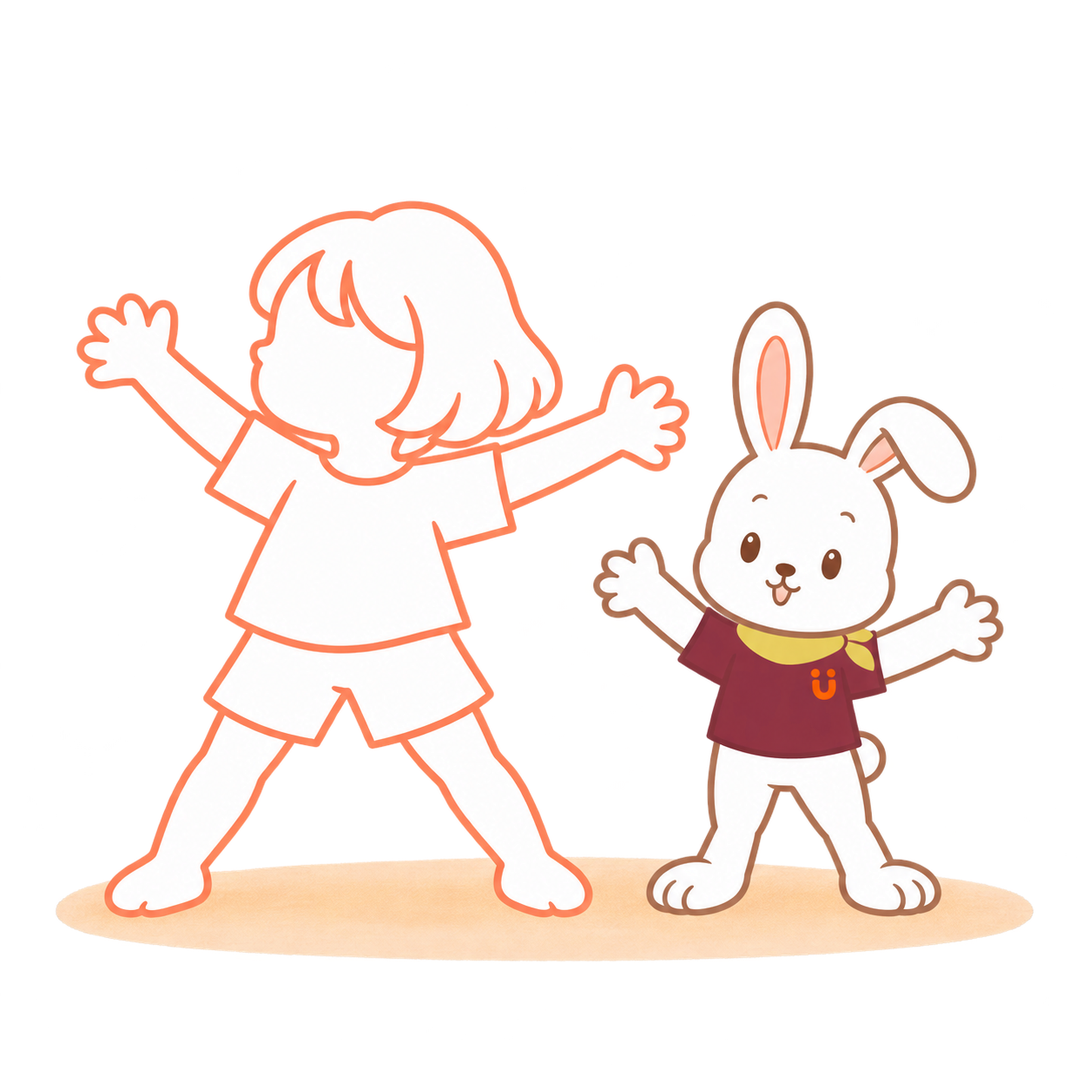
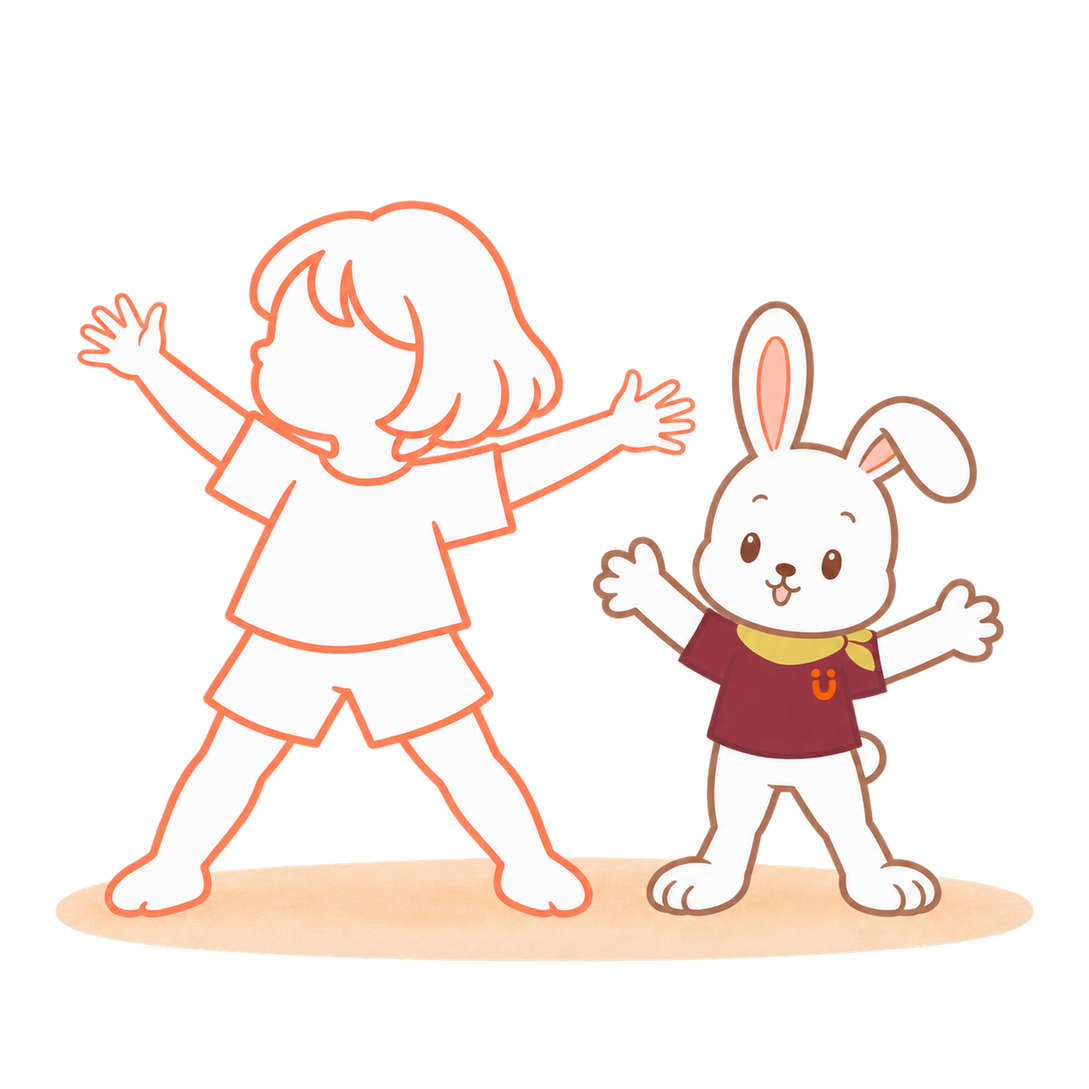
Refine Gen play title and child hands; add household story ideas

diff --git a/stories/rhythm-with-gen/index.html b/stories/rhythm-with-gen/index.html
@@ -1,16 +1,16 @@
 <!doctype html><html lang="ja"><head><meta charset="utf-8"><meta name="viewport" content="width=device-width,initial-scale=1"><meta name="theme-color" content="#fffdf9"><title>とん、とん。ぴたっ！ | HugMap Stories</title><meta name="description" content="子どもの音と動きをGenがまねる。鳴らす、動く、止まる、また始める遊びのWebtoon。"><link rel="stylesheet" href="../hello-gen/styles.css"><link rel="stylesheet" href="../intro-webtoon.css"><link rel="stylesheet" href="../play-with-gen/styles.css"><link rel="stylesheet" href="styles.css"><link rel="stylesheet" href="../buddy-hints.css"></head><body class="webtoon gen-play rhythm-play"><header class="story-header"><a class="brand" href="../play-with-gen/">HugMap <span>Stories</span></a><button id="textToggle" type="button" aria-pressed="false">文字を大きく</button></header><nav class="progress" aria-label="物語の進み具合"><span id="progressLabel">はじまり</span><span class="track"><span id="progressFill"></span></span><span id="progressCount">0 / 6</span></nav><main><section class="panel cover" id="cover" data-step="0"><div class="copy"><p class="eyebrow">HUGMAP · GENと あそぼう</p><h1>とん、とん。<br><em>ぴたっ！</em></h1><p class="lead">おとでも、てでも、からだでも。</p><a class="start cover-arrow" href="#scene-sound" aria-label="おはなしへ">↓</a></div><figure><img src="../assets/gen-play/gen-drum-echo.png" alt="子どもがたいこを鳴らし、隣でGenが見ている"></figure></section><section class="panel scene rhythm-split " id="scene-sound" data-step="1"><div class="copy"><p class="eyebrow" aria-label="1ページ">01</p><h2>きみが、とん。</h2><p class="story-text">ちいさな おと。<br>すこし まって、ぼくも、とん。</p></div><figure><img src="../assets/gen-play/gen-drum-echo.png" alt="子どもがたいこを鳴らし、隣でGenが見ている" loading="lazy"></figure><div class="story-beat"><p class="story-text">きこえた？</p></div>
 
 <aside class="buddy-hint" aria-label="Genから、おうちの人へ"><img class="buddy-hint-face" src="../../planning/style-studies/outputs/characters/icons/gen-head-icon.png" alt="" loading="lazy" width="70" height="70"><div class="buddy-hint-bubble"><span class="buddy-hint-label">おうちの人へ</span><p>まずは、きみの音を大人がまねしてみてね。<br>返ってこなくても、少し待ってみよう。</p></div></aside></section>
-<section class="panel scene rhythm-split " id="scene-touch" data-step="2"><div class="copy"><p class="eyebrow" aria-label="2ページ">02</p><h2>てと、てで。</h2><p class="story-text">ぼくの てを、ここに。<br>きみの てが……。</p></div><figure><img src="../assets/gen-play/gen-rhythm-touch.png" alt="向かい合って両手のひらを優しく合わせる子どもとGen" loading="lazy"></figure><div class="story-beat"><p class="story-text">たっち！<br>もういちど、たっち。</p></div>
+<section class="panel scene rhythm-split " id="scene-touch" data-step="2"><div class="copy"><p class="eyebrow" aria-label="2ページ">02</p><h2>てと、てで。</h2><p class="story-text">ぼくの てを、ここに。<br>きみの てが……。</p></div><figure><img src="../assets/gen-play/gen-rhythm-touch.png?09b7295bc6" alt="向かい合って両手のひらを優しく合わせる子どもとGen" loading="lazy"></figure><div class="story-beat"><p class="story-text">たっち！<br>もういちど、たっち。</p></div>
 
 <aside class="buddy-hint" aria-label="Genから、おうちの人へ"><img class="buddy-hint-face" src="../../planning/style-studies/outputs/characters/icons/gen-head-icon.png" alt="" loading="lazy" width="70" height="70"><div class="buddy-hint-bubble"><span class="buddy-hint-label">おうちの人へ</span><p>手を差し出して、待ってみてね。<br>触れたくないときは、見るだけでも。</p></div></aside></section>
-<section class="panel scene rhythm-split " id="scene-march" data-step="3"><div class="copy"><p class="eyebrow" aria-label="3ページ">03</p><h2>あしでも、いち、に。</h2><p class="story-text">てから、あしへ。<br>いち、に。いち、に。</p></div><figure><img src="../assets/gen-play/gen-rhythm-march.png" alt="子どもとGenが並んで片足ずつ上げ足踏みする" loading="lazy"></figure><div class="story-beat"><p class="story-text">ぼくも、となりで。<br>いち、に。</p></div>
+<section class="panel scene rhythm-split " id="scene-march" data-step="3"><div class="copy"><p class="eyebrow" aria-label="3ページ">03</p><h2>あしでも、いち、に。</h2><p class="story-text">てから、あしへ。<br>いち、に。いち、に。</p></div><figure><img src="../assets/gen-play/gen-rhythm-march.png?d88d744797" alt="子どもとGenが並んで片足ずつ上げ足踏みする" loading="lazy"></figure><div class="story-beat"><p class="story-text">ぼくも、となりで。<br>いち、に。</p></div>
 
 <aside class="buddy-hint" aria-label="Genから、おうちの人へ"><img class="buddy-hint-face" src="../../planning/style-studies/outputs/characters/icons/gen-head-icon.png" alt="" loading="lazy" width="70" height="70"><div class="buddy-hint-bubble"><span class="buddy-hint-label">おうちの人へ</span><p>立つのが難しいときは、座ったままでも。<br>ひざを、とんとん。これもリズムだよ。</p></div></aside></section>
-<section class="panel scene rhythm-split " id="scene-speed" data-step="4"><div class="copy"><p class="eyebrow" aria-label="4ページ">04</p><h2>おっと、はやすぎた。</h2><p class="story-text">ぼくは、いちに、いちに！<br>あれ、きみは……。</p></div><figure><img src="../assets/gen-play/gen-rhythm-march.png" alt="足踏みをする子どもに合わせるGen" loading="lazy"></figure><div class="story-beat"><p class="story-text">いーち、にー。<br>そうか。きみの はやさで。</p></div>
+<section class="panel scene rhythm-split " id="scene-speed" data-step="4"><div class="copy"><p class="eyebrow" aria-label="4ページ">04</p><h2>おっと、はやすぎた。</h2><p class="story-text">ぼくは、いちに、いちに！<br>あれ、きみは……。</p></div><figure><img src="../assets/gen-play/gen-rhythm-march.png?d88d744797" alt="足踏みをする子どもに合わせるGen" loading="lazy"></figure><div class="story-beat"><p class="story-text">いーち、にー。<br>そうか。きみの はやさで。</p></div>
 </section>
 <section class="panel scene rhythm-split quiet" id="scene-stop" data-step="5"><div class="copy"><p class="eyebrow" aria-label="5ページ">05</p><h2>……ぴたっ。</h2><p class="story-text">きみが とまった。<br>ぼくも、とまる。</p></div><figure><img src="../assets/gen-play/gen-freeze-pose.png" alt="両足で立ち手を広げたまま止まる子どもとGen" loading="lazy"></figure><div class="story-beat"><p class="story-text">しーん。<br>……。</p></div>
 
 </section>
-<section class="panel scene rhythm-split " id="scene-leader" data-step="6"><div class="copy"><p class="eyebrow" aria-label="6ページ">06</p><h2>こんどは、きみから。</h2><p class="story-text">きみの てが、ぱっ！<br>あ、そっち？</p></div><figure><img src="../assets/gen-play/gen-big.png" alt="子どもの大きく広げた手足をまねるGen" loading="lazy"></figure><div class="story-beat"><p class="story-text">ぼくも、ぱっ！<br>つぎは、なにを しよう？</p></div>
-</section><section class="afterword" id="afterword" data-step="7"><p class="eyebrow">おはなしの あとに</p><h2>きみのリズムで、<br>遊びが変わる。</h2><p>音で返事をする。手を合わせる。足踏みする。速さを変える。同じリズムでも、遊び方はいろいろ。Genは子どもの音や動きに応じて、一緒に動いたり、止まったり。気に入ったところだけ、何度でも。</p><div class="play-choices"><h3>どれを、もういっかい？</h3><div class="play-choice-grid"><a href="#scene-sound"><img src="../assets/gen-play/gen-drum-echo.png" alt="" loading="lazy"><span>音で返事</span></a><a href="#scene-touch"><img src="../assets/gen-play/gen-rhythm-touch.png" alt="" loading="lazy"><span>手と手</span></a><a href="#scene-march"><img src="../assets/gen-play/gen-rhythm-march.png" alt="" loading="lazy"><span>足踏み</span></a><a href="#scene-stop"><img src="../assets/gen-play/gen-freeze-pose.png" alt="" loading="lazy"><span>ぴたっ</span></a><a href="#scene-leader"><img src="../assets/gen-play/gen-big.png" alt="" loading="lazy"><span>きみから</span></a></div><p>全部しなくて大丈夫。好きなところから。</p></div><div class="aims"><h3>この遊びのねらい</h3><ul><li><strong>やりとり：</strong>自分の音や動きに、相手が応じる楽しさ。</li><li><strong>手を使う：</strong>触れる、鳴らす、離す。慣れたら両手や左右の手でも。</li><li><strong>動く・止まる：</strong>姿勢を変えたり、一瞬その形で止まったりする経験。</li></ul><p>左右交互にたたくこと、音に合わせて止まることは、最初からの条件ではありません。</p></div><details class="play-note"><summary>準備と、遊びを変える目安</summary><p><strong>止まる遊びのコツ：</strong>まずは子どもが止まった瞬間に大人も止まるところから。慣れたら短い歌や音の切れ目で一緒に止まってみます。座って手だけ動かしても遊べます。</p><p>倒れにくい低い手遊び用のたいこなどを使い、小さな音から。大きな音や突然の音が苦手なら、音を出さず動きをまねる遊びでも構いません。</p><p>立って遊ぶときは、平らで滑りにくい床で、周りに十分な空間を。長く止まり続けたり、同じ形を無理に作ったりする必要はありません。疲れや不快な様子があれば休みます。</p><p>身体の支え方や運動に制限がある場合は担当の専門職と相談してください。遊びのねらいは、発達の効果や達成を約束するものではありません。</p></details><p class="sources">参考：<a href="https://www.justonenorfolk.nhs.uk/occupational-therapy-for-parents-carers/learning-playing-exploring/skills-building/gross-motor-skills/">NHS · Gross Motor Skills</a><br>バランス・両側の協調の観点を参考にしたHugMapの遊び案です。</p><div class="end-links"><a class="start" href="../play-with-gen/poses/">ほかの遊びを選ぶ →</a><a href="../delivery-with-gen/">ボールであそぼう →</a><a href="../through-with-gen/">ここ、通れるかな？ →</a><a href="#cover">もういちど読む ↑</a></div></section></main><script src="../hello-gen/story.js"></script></body></html>
+<section class="panel scene rhythm-split " id="scene-leader" data-step="6"><div class="copy"><p class="eyebrow" aria-label="6ページ">06</p><h2>こんどは、きみから。</h2><p class="story-text">きみの てが、ぱっ！<br>あ、そっち？</p></div><figure><img src="../assets/gen-play/gen-big.png?2f9ab7cfb0" alt="子どもの大きく広げた手足をまねるGen" loading="lazy"></figure><div class="story-beat"><p class="story-text">ぼくも、ぱっ！<br>つぎは、なにを しよう？</p></div>
+</section><section class="afterword" id="afterword" data-step="7"><p class="eyebrow">おはなしの あとに</p><h2>きみのリズムで、<br>遊びが変わる。</h2><p>音で返事をする。手を合わせる。足踏みする。速さを変える。同じリズムでも、遊び方はいろいろ。Genは子どもの音や動きに応じて、一緒に動いたり、止まったり。気に入ったところだけ、何度でも。</p><div class="play-choices"><h3>どれを、もういっかい？</h3><div class="play-choice-grid"><a href="#scene-sound"><img src="../assets/gen-play/gen-drum-echo.png" alt="" loading="lazy"><span>音で返事</span></a><a href="#scene-touch"><img src="../assets/gen-play/gen-rhythm-touch.png?09b7295bc6" alt="" loading="lazy"><span>手と手</span></a><a href="#scene-march"><img src="../assets/gen-play/gen-rhythm-march.png?d88d744797" alt="" loading="lazy"><span>足踏み</span></a><a href="#scene-stop"><img src="../assets/gen-play/gen-freeze-pose.png" alt="" loading="lazy"><span>ぴたっ</span></a><a href="#scene-leader"><img src="../assets/gen-play/gen-big.png?2f9ab7cfb0" alt="" loading="lazy"><span>きみから</span></a></div><p>全部しなくて大丈夫。好きなところから。</p></div><div class="aims"><h3>この遊びのねらい</h3><ul><li><strong>やりとり：</strong>自分の音や動きに、相手が応じる楽しさ。</li><li><strong>手を使う：</strong>触れる、鳴らす、離す。慣れたら両手や左右の手でも。</li><li><strong>動く・止まる：</strong>姿勢を変えたり、一瞬その形で止まったりする経験。</li></ul><p>左右交互にたたくこと、音に合わせて止まることは、最初からの条件ではありません。</p></div><details class="play-note"><summary>準備と、遊びを変える目安</summary><p><strong>止まる遊びのコツ：</strong>まずは子どもが止まった瞬間に大人も止まるところから。慣れたら短い歌や音の切れ目で一緒に止まってみます。座って手だけ動かしても遊べます。</p><p>倒れにくい低い手遊び用のたいこなどを使い、小さな音から。大きな音や突然の音が苦手なら、音を出さず動きをまねる遊びでも構いません。</p><p>立って遊ぶときは、平らで滑りにくい床で、周りに十分な空間を。長く止まり続けたり、同じ形を無理に作ったりする必要はありません。疲れや不快な様子があれば休みます。</p><p>身体の支え方や運動に制限がある場合は担当の専門職と相談してください。遊びのねらいは、発達の効果や達成を約束するものではありません。</p></details><p class="sources">参考：<a href="https://www.justonenorfolk.nhs.uk/occupational-therapy-for-parents-carers/learning-playing-exploring/skills-building/gross-motor-skills/">NHS · Gross Motor Skills</a><br>バランス・両側の協調の観点を参考にしたHugMapの遊び案です。</p><div class="end-links"><a class="start" href="../play-with-gen/poses/">ほかの遊びを選ぶ →</a><a href="../delivery-with-gen/">ボールであそぼう →</a><a href="../through-with-gen/">ここ、通れるかな？ →</a><a href="#cover">もういちど読む ↑</a></div></section></main><script src="../hello-gen/story.js"></script></body></html>

diff --git a/stories/delivery-with-gen/index.html b/stories/delivery-with-gen/index.html
@@ -4,14 +4,14 @@
 <section class="panel scene rhythm-split " id="scene-deliver" data-step="2"><div class="copy"><p class="eyebrow" aria-label="2ページ">02</p><h2>おとどけもの、どうぞ。</h2><p class="story-text">ひろって、はこんで。<br>かごまで、よいしょ。</p></div><figure><img src="../assets/gen-play/gen-reach-up.png" alt="ボールを拾う子どもと、かごへ入れる子どもを見守るGen" loading="lazy"></figure><div class="story-beat"><p class="story-text">りょうてで、そっと。<br>はいった！</p></div>
 
 <aside class="buddy-hint" aria-label="Genから、おうちの人へ"><img class="buddy-hint-face" src="../../planning/style-studies/outputs/characters/icons/gen-head-icon.png" alt="" loading="lazy" width="70" height="70"><div class="buddy-hint-bubble"><span class="buddy-hint-label">おうちの人へ</span><p>手が届きにくそうなら、<br>かごを近く、低いところへ。</p></div></aside></section>
-<section class="panel scene rhythm-split " id="scene-target" data-step="3"><div class="copy"><p class="eyebrow" aria-label="3ページ">03</p><h2>ころがしても、いいね。</h2><p class="story-text">こんどは、はこを よこむきに。</p></div><figure><img src="../assets/gen-play/gen-ball-target.png" alt="横にした箱に向かってボールを転がそうとする子どもと、箱を支えるGen" loading="lazy"></figure><div class="story-beat"><p class="story-text">もちあげなくても、<br>ここから、ころころ。</p></div>
+<section class="panel scene rhythm-split " id="scene-target" data-step="3"><div class="copy"><p class="eyebrow" aria-label="3ページ">03</p><h2>ころがしても、いいね。</h2><p class="story-text">こんどは、はこを よこむきに。</p></div><figure><img src="../assets/gen-play/gen-ball-target.png?914e0eff73" alt="横にした箱に向かってボールを転がそうとする子どもと、箱を支えるGen" loading="lazy"></figure><div class="story-beat"><p class="story-text">もちあげなくても、<br>ここから、ころころ。</p></div>
 
 </section>
 <section class="panel scene rhythm-split " id="scene-toss" data-step="4"><div class="copy"><p class="eyebrow" aria-label="4ページ">04</p><h2>うえへ、ぽん。</h2><p class="story-text">こんどは、そらへ。<br>ほんの すこし、ぽん。</p></div><figure><img src="../assets/gen-play/gen-ball-toss.png" alt="子どもが自分の頭の少し上へボールを投げ両手を開きGenが見守る" loading="lazy"></figure><div class="story-beat"><p class="story-text">おちてくるよ。<br>りょうてを、ひらいて……。</p></div>
 
 </section>
-<section class="panel scene rhythm-split " id="scene-catch" data-step="5"><div class="copy"><p class="eyebrow" aria-label="5ページ">05</p><h2>きみへ、ふわっ。</h2><p class="story-text">ぼくは、すこし ちかくへ。<br>じゅんびは、いい？</p></div><figure><img src="../assets/gen-play/gen-ball-catch.png" alt="Genが近い距離から下手でボールを渡し子どもが両手を構える" loading="lazy"></figure><div class="story-beat"><p class="story-text">ふわっ。<br>きみの ての ところへ。</p></div>
+<section class="panel scene rhythm-split " id="scene-catch" data-step="5"><div class="copy"><p class="eyebrow" aria-label="5ページ">05</p><h2>きみへ、ふわっ。</h2><p class="story-text">ぼくは、すこし ちかくへ。<br>じゅんびは、いい？</p></div><figure><img src="../assets/gen-play/gen-ball-catch.png?568f5c741d" alt="Genが近い距離から下手でボールを渡し子どもが両手を構える" loading="lazy"></figure><div class="story-beat"><p class="story-text">ふわっ。<br>きみの ての ところへ。</p></div>
 
 <aside class="buddy-hint" aria-label="Genから、おうちの人へ"><img class="buddy-hint-face" src="../../planning/style-studies/outputs/characters/icons/gen-head-icon.png" alt="" loading="lazy" width="70" height="70"><div class="buddy-hint-bubble"><span class="buddy-hint-label">おうちの人へ</span><p>両手で抱えやすい、軽くて柔らかいボールで。<br>受ける準備ができたら、近くから。</p></div></aside></section>
 <section class="panel scene rhythm-split " id="scene-again" data-step="6"><div class="copy"><p class="eyebrow" aria-label="6ページ">06</p><h2>どれを、もういっかい？</h2><p class="story-text">ころころ？<br>それとも、ぽん？</p></div><figure><img src="../assets/gen-play/gen-ball-exchange.png" alt="向かい合って座りボールで遊ぶ子どもとGen" loading="lazy"></figure><div class="story-beat"><p class="story-text">きみの すきな あそびを、<br>ぼくと、もういっかい。</p></div>
-</section><section class="afterword" id="afterword" data-step="7"><p class="eyebrow">おはなしの あとに</p><h2>ひとつのボールで、<br>いろんな「やってみたい」。</h2><p>転がす、運ぶ、箱へ入れる、上へ投げる、相手と受け渡す。全部を順番にする必要はありません。Genは、子どもの関心や動きに合わせて、道や入口を変えます。今日はどの遊びが楽しそうでしょう。</p><div class="play-choices"><h3>どれを、もういっかい？</h3><div class="play-choice-grid"><a href="#scene-roll"><img src="../assets/gen-play/gen-ball-exchange.png" alt="" loading="lazy"><span>ころがす</span></a><a href="#scene-deliver"><img src="../assets/gen-play/gen-reach-up.png" alt="" loading="lazy"><span>運ぶ・入れる</span></a><a href="#scene-target"><img src="../assets/gen-play/gen-ball-target.png" alt="" loading="lazy"><span>箱へころころ</span></a><a href="#scene-toss"><img src="../assets/gen-play/gen-ball-toss.png" alt="" loading="lazy"><span>上へぽん</span></a><a href="#scene-catch"><img src="../assets/gen-play/gen-ball-catch.png" alt="" loading="lazy"><span>きみへどうぞ</span></a></div><p>全部しなくて大丈夫。好きなところから。</p></div><div class="aims"><h3>この遊びのねらい</h3><ul><li><strong>体を使う：</strong>拾う・立つ・運ぶ中で、体を支え、姿勢を変える経験。</li><li><strong>両手を使う：</strong>物を持ち、離すときの左右の協調や力加減。</li><li><strong>動きをつなぐ：</strong>拾う・運ぶ・入れる動きや、ボールを見て手を出す動きを、遊びの中で経験する。</li></ul><p>すべてを一度に行う必要はありません。座って手元の物をかごに入れるところからでも遊べます。</p></div><details class="play-note"><summary>準備と、遊びを変える目安</summary><p><strong>投げて、受ける：</strong>柔らかく軽いボールで、低く投げるところから。抱えるように受けても、落ちたボールを拾っても。周囲に物のない場所で遊びます。</p><p><strong>入口を変えるコツ：</strong>床に置いた箱へ転がす遊びも。広い入口を子どもの方へ向け、近くから。かごに持ち上げて入れる遊びと、好きな方を選べます。</p><p>軽くて持ちやすい物と、安定したかごを用意します。平らで滑りにくい床で、大人がそばに。最初は障害物のない短い道から始めます。</p><p>足が止まる、持ち直す、座り込むなどの様子を見たら、距離・重さ・高さのどれか一つを変えてみます。関心が別に移ったときは、遊びを変えたり終えたりして構いません。</p><p>痛みや疲れがあるときは休みます。支え方や運動に制限がある場合は担当の専門職と相談してください。ここでのねらいは、発達の効果や達成を約束するものではありません。</p></details><p class="sources">参考：<a href="https://www.justonenorfolk.nhs.uk/occupational-therapy-for-parents-carers/learning-playing-exploring/skills-building/gross-motor-skills/">NHS · Gross Motor Skills</a><br>上記の観点を参考にしたHugMapの遊び案です。</p><div class="end-links"><a class="start" href="../play-with-gen/poses/">ほかの遊びを選ぶ →</a><a href="../rhythm-with-gen/">とん、とん。ぴたっ！ →</a><a href="../through-with-gen/">ここ、通れるかな？ →</a><a href="#cover">もういちど読む ↑</a><a href="../play-with-gen/">Genの遊び編へ →</a></div></section></main><script src="../hello-gen/story.js"></script></body></html>
+</section><section class="afterword" id="afterword" data-step="7"><p class="eyebrow">おはなしの あとに</p><h2>ひとつのボールで、<br>いろんな「やってみたい」。</h2><p>転がす、運ぶ、箱へ入れる、上へ投げる、相手と受け渡す。全部を順番にする必要はありません。Genは、子どもの関心や動きに合わせて、道や入口を変えます。今日はどの遊びが楽しそうでしょう。</p><div class="play-choices"><h3>どれを、もういっかい？</h3><div class="play-choice-grid"><a href="#scene-roll"><img src="../assets/gen-play/gen-ball-exchange.png" alt="" loading="lazy"><span>ころがす</span></a><a href="#scene-deliver"><img src="../assets/gen-play/gen-reach-up.png" alt="" loading="lazy"><span>運ぶ・入れる</span></a><a href="#scene-target"><img src="../assets/gen-play/gen-ball-target.png?914e0eff73" alt="" loading="lazy"><span>箱へころころ</span></a><a href="#scene-toss"><img src="../assets/gen-play/gen-ball-toss.png" alt="" loading="lazy"><span>上へぽん</span></a><a href="#scene-catch"><img src="../assets/gen-play/gen-ball-catch.png?568f5c741d" alt="" loading="lazy"><span>きみへどうぞ</span></a></div><p>全部しなくて大丈夫。好きなところから。</p></div><div class="aims"><h3>この遊びのねらい</h3><ul><li><strong>体を使う：</strong>拾う・立つ・運ぶ中で、体を支え、姿勢を変える経験。</li><li><strong>両手を使う：</strong>物を持ち、離すときの左右の協調や力加減。</li><li><strong>動きをつなぐ：</strong>拾う・運ぶ・入れる動きや、ボールを見て手を出す動きを、遊びの中で経験する。</li></ul><p>すべてを一度に行う必要はありません。座って手元の物をかごに入れるところからでも遊べます。</p></div><details class="play-note"><summary>準備と、遊びを変える目安</summary><p><strong>投げて、受ける：</strong>柔らかく軽いボールで、低く投げるところから。抱えるように受けても、落ちたボールを拾っても。周囲に物のない場所で遊びます。</p><p><strong>入口を変えるコツ：</strong>床に置いた箱へ転がす遊びも。広い入口を子どもの方へ向け、近くから。かごに持ち上げて入れる遊びと、好きな方を選べます。</p><p>軽くて持ちやすい物と、安定したかごを用意します。平らで滑りにくい床で、大人がそばに。最初は障害物のない短い道から始めます。</p><p>足が止まる、持ち直す、座り込むなどの様子を見たら、距離・重さ・高さのどれか一つを変えてみます。関心が別に移ったときは、遊びを変えたり終えたりして構いません。</p><p>痛みや疲れがあるときは休みます。支え方や運動に制限がある場合は担当の専門職と相談してください。ここでのねらいは、発達の効果や達成を約束するものではありません。</p></details><p class="sources">参考：<a href="https://www.justonenorfolk.nhs.uk/occupational-therapy-for-parents-carers/learning-playing-exploring/skills-building/gross-motor-skills/">NHS · Gross Motor Skills</a><br>上記の観点を参考にしたHugMapの遊び案です。</p><div class="end-links"><a class="start" href="../play-with-gen/poses/">ほかの遊びを選ぶ →</a><a href="../rhythm-with-gen/">とん、とん。ぴたっ！ →</a><a href="../through-with-gen/">ここ、通れるかな？ →</a><a href="#cover">もういちど読む ↑</a><a href="../play-with-gen/">Genの遊び編へ →</a></div></section></main><script src="../hello-gen/story.js"></script></body></html>

diff --git a/stories/play-with-gen/index.html b/stories/play-with-gen/index.html
@@ -1,7 +1,7 @@
 <!doctype html>
-<html lang="ja"><head><meta charset="utf-8"><meta name="viewport" content="width=device-width,initial-scale=1"><meta name="theme-color" content="#fffdf9"><meta name="description" content="子どもの動きや興味から、Genと遊びが広がる。まねる、やりとりする、トンネルをくぐる、ひと休み。"><title>きみの「もういっかい」みつけた。 | HugMap Stories</title><link rel="stylesheet" href="../hello-gen/styles.css"><link rel="stylesheet" href="../intro-webtoon.css"><link rel="stylesheet" href="styles.css"></head>
+<html lang="ja"><head><meta charset="utf-8"><meta name="viewport" content="width=device-width,initial-scale=1"><meta name="theme-color" content="#fffdf9"><meta name="description" content="丸まる、押す、寝転ぶ、くぐる。Genと、からだの形・力・向きを感じる遊び。"><title>ぎゅっ、ごろん。からだで あそぼう。 | HugMap Stories</title><link rel="stylesheet" href="../hello-gen/styles.css"><link rel="stylesheet" href="../intro-webtoon.css"><link rel="stylesheet" href="styles.css"></head>
 <body class="webtoon gen-play"><header class="story-header"><a class="brand" href="../hello-gen/">HugMap <span>Stories</span></a><button id="textToggle" type="button" aria-pressed="false">文字を大きく</button></header><nav class="progress" aria-label="物語の進み具合"><span id="progressLabel">はじまり</span><span class="track"><span id="progressFill"></span></span><span id="progressCount">0 / 10</span></nav><main>
-<section class="panel cover" id="cover" data-step="0"><div class="copy"><p class="eyebrow">HUGMAP · GENと あそぼう</p><h1>きみの「もういっかい」<br><em>みつけた。</em></h1><p class="lead">きみと いっしょに、からだで あそぼう。</p><a class="start cover-arrow" href="#scene-invite" aria-label="おはなしへ"><span aria-hidden="true">↓</span></a></div><figure><img src="../assets/gen-play/gen-cover.png?8b01918412" width="1254" height="1254" alt="遊びの入口で、子どもと一緒に読者を誘うGen" fetchpriority="high"></figure></section>
+<section class="panel cover" id="cover" data-step="0"><div class="copy"><p class="eyebrow">HUGMAP · GENと あそぼう</p><h1>ぎゅっ、ごろん。<br><em>からだで あそぼう。</em></h1><p class="lead">Genと、からだの形・力・向きを感じる遊び</p><a class="start cover-arrow" href="#scene-invite" aria-label="おはなしへ"><span aria-hidden="true">↓</span></a></div><figure><img src="../assets/gen-play/gen-cover.png?f002d7df29" width="1254" height="1254" alt="遊びの入口で、子どもと一緒に読者を誘うGen" fetchpriority="high"></figure></section>
 <section class="panel scene rhythm-split quiet focus-child" id="scene-invite" data-step="1"><div class="copy"><p class="eyebrow" aria-label="1ページ">01</p><h2>いっしょに、あそぼう。</h2><p class="story-text">ぼくは、からだを 動かすのが だいすき。</p></div><figure><img src="../assets/gen-play/gen-small.png?c0a39a0a13" width="1254" height="1254" alt="膝を抱えて座る子どもに寄せた絵" loading="lazy"></figure><div class="story-beat"><p class="story-text">……きみは、すわっている。<br>なにして あそぼうかな。</p></div></section>
 <section class="panel scene rhythm-split " id="scene-small" data-step="2"><div class="copy"><p class="eyebrow" aria-label="2ページ">02</p><h2>ちいさく、ぎゅっ。</h2><p class="story-text">きみが おひざを、かかえた。</p></div><figure><img src="../assets/gen-play/gen-small.png?c0a39a0a13" width="1254" height="1254" alt="膝を抱えて座る子どもと、隣で小さくなるGen" loading="lazy"></figure><div class="story-beat"><p class="story-text">ぼくも となりで、まあるく。<br>ふたりで、ちいさな おだんご。</p></div></section>
 <section class="panel scene rhythm-split " id="scene-palm-push" data-step="3"><div class="copy"><p class="eyebrow" aria-label="3ページ">03</p><h2>てのひら、ぴたっ。</h2><p class="story-text">おうちの人が、てを 出した。<br>きみも、ぴたっ。</p></div><figure><img src="../assets/gen-play/gen-palm-push.png?485fc343b2" width="1254" height="1254" alt="大人と手のひらを合わせて押す子どもをGenが見守る" loading="lazy"></figure><div class="story-beat"><p class="story-text">おっ。おしてきたね。<br>きみの ちから、つたわった！</p></div></section>
@@ -11,5 +11,5 @@
 <section class="panel scene rhythm-split " id="scene-tunnel" data-step="7"><div class="copy"><p class="eyebrow" aria-label="7ページ">07</p><h2>ひょい。<br>するん。</h2><p class="story-text">あたまを さげて。<br>てを ついて。</p></div><figure><img src="../assets/gen-play/gen-tunnel.png?99ead95b77" width="1536" height="1024" alt="頭を低くしてトンネルから出てくる子どもをGenが迎える" loading="lazy"></figure><div class="story-beat"><p class="story-text">でてきた！<br>こんにちは！</p></div></section>
 <section class="panel scene rhythm-split " id="scene-turn" data-step="8"><div class="copy"><p class="eyebrow" aria-label="8ページ">08</p><h2>ひこうき、とぶよ。</h2><p class="story-text">こんどは、おうちの人に<br>両手を、ぱっ。</p></div><figure><img src="../assets/gen-play/gen-turn.png?c437433a02" width="1254" height="1254" alt="大人が胸と胴を支えて子どもを近くに抱きゆっくり向きを変え、Genが見守る" loading="lazy"></figure><div class="story-beat"><p class="story-text">ゆっくり、ふわり。<br>ぼくの ところへ、こんにちは！<br><br>ぴたっ。</p></div></section>
 <section class="panel scene rhythm-split quiet" id="scene-rest" data-step="9"><div class="copy"><p class="eyebrow" aria-label="9ページ">09</p><h2>ふう。</h2><p class="story-text">きみが 座ったから、ぼくも 座る。</p></div><figure><img src="../assets/gen-play/gen-rest.png?7be3a732a4" width="1254" height="1254" alt="足を前に伸ばして隣り合って休む子どもとGen" loading="lazy"></figure><div class="story-beat"><p class="story-text">あしを のばして。<br>となりで、ひとやすみ。</p></div></section>
-<section class="panel scene rhythm-split ending" id="scene-again" data-step="10"><div class="copy"><p class="eyebrow" aria-label="10ページ">10</p><h2>あっ。また、てが あがった。</h2><p class="story-text">もういっかい、あそぶ？</p></div><figure><img src="../assets/gen-play/gen-cover.png?8b01918412" width="1254" height="1254" alt="手を上げる子どもと遊びに誘うGen" loading="lazy"></figure><div class="story-beat"><p class="story-text">きみの「もういっかい」は、<br>どの あそび？</p></div></section>
+<section class="panel scene rhythm-split ending" id="scene-again" data-step="10"><div class="copy"><p class="eyebrow" aria-label="10ページ">10</p><h2>あっ。また、てが あがった。</h2><p class="story-text">もういっかい、あそぶ？</p></div><figure><img src="../assets/gen-play/gen-cover.png?f002d7df29" width="1254" height="1254" alt="手を上げる子どもと遊びに誘うGen" loading="lazy"></figure><div class="story-beat"><p class="story-text">きみの「もういっかい」は、<br>どの あそび？</p></div></section>
 <section class="afterword" id="afterword" data-step="11"><p class="eyebrow">おはなしの あとに</p><h2>遊びの入口は、<br>その子の中にも。</h2><p>大人の動きをまねる日も、子どもの動きをまねてみる日も。「気になる」ものに近づくことや、休むことも、一緒に過ごす時間の一部です。</p><p>Genは、用意した遊びを少し変えながら、その子の「やってみたい」を探します。同じ形にならなくても、今のやりとりを楽しめたら。</p><aside class="more-play"><p><a href="../rhythm-with-gen/">とん、とん。ぴたっ！ →</a></p><h3>つぎは、どれで遊ぶ？</h3><p><a href="../through-with-gen/">ここ、通れるかな？ →</a></p><p><a href="../delivery-with-gen/">ボールであそぼう →</a></p><p>大きく、ぱっ。クッションを、よいしょ。<br>これまでの遊びを、3つの入口から。</p><a class="start" href="poses/">遊びのイラスト一覧へ →</a></aside><details class="play-note"><summary>おうちで遊ぶときに</summary><p>大人がそばで見守り、平らで滑りにくい床に、ぶつからず動ける場所を用意します。トンネルは短く、十分な広さがあり、顔と出口が見えるものを。手足を引いて通したり、無理に身体を丸めたりしません。</p><p>抱っこの場面は、連続して回転させる練習ではありません。脇だけで吊り上げたり、手首や腕を持って振り回したりしません。抱いて向きを変える動きも、その子の頭や身体の支え方に合わせ、必要に応じて担当の専門職と確かめます。</p><p>嫌がる、疲れる、痛がる、気分が悪くなるときはおしまいに。身体の支え方や運動の制限がある場合は、担当の専門職と相談してください。この絵本は、全員に同じ練習や発達の効果を約束するものではありません。</p><p class="sources">参考：<a href="https://www.shropscommunityhealth.nhs.uk/content/doclib/14438.pdf">NHS：Body Awareness</a> ／ <a href="https://www.justonenorfolk.nhs.uk/occupational-therapy-for-parents-carers/learning-playing-exploring/skills-building/gross-motor-skills/">NHS：Gross Motor Skills</a> ／ <a href="https://www.swbh.nhs.uk/wp-content/uploads/2021/11/Childrens-Therapies-Vestibular-Overview-and-Activities.pdf">NHS：動きとバランスの感覚</a></p></details><div class="end-links"><a class="start" href="#cover">もういちど読む ↑</a><a href="../hello-gen/">Genの自己紹介へ →</a></div><p class="colophon">HugMap Stories · Genの遊び編</p></section></main><script src="../hello-gen/story.js"></script></body></html>

diff --git a/stories/play-with-gen/poses/index.html b/stories/play-with-gen/poses/index.html
@@ -7,7 +7,7 @@
 <article id="freeze-pose" data-entries="imitate interact"><span class="number">06</span><figure><a href="../../assets/gen-play/gen-freeze-pose.png" aria-label="まねっこ、ぴたっの画像を開く"><img src="../../assets/gen-play/gen-freeze-pose.png" width="1254" height="1254" alt="まねっこ、ぴたっ"></a></figure><h2>まねっこ、ぴたっ</h2><p>きみの ポーズ、ぼくも やってみよう。</p><p class="picture-entry">この絵の入口：<strong>やりとりで遊ぶ</strong></p><p class="entry-description">子どもが手を上げたら、Genも上げる。まずはGenがまねする側に。「きみと、おんなじ！」</p><details class="other-entries"><summary>別の入口で遊ぶなら</summary><div class="alternative"><b>まねして遊ぶ</b><p>Genが好きなポーズで止まる。子どもが同じ形を試してみる。</p></div></details><a class="download" href="../../assets/gen-play/gen-freeze-pose.png" download>PNGを保存 ↓</a></article>
 
 <article id="small" data-entries="interact imitate"><span class="number">07</span><figure><a href="../../assets/gen-play/gen-small.png" aria-label="ちいさく、ぎゅっの画像を開く"><img src="../../assets/gen-play/gen-small.png?c0a39a0a13" width="1254" height="1254" alt="ちいさく、ぎゅっ" loading="lazy"></a></figure><h2>ちいさく、ぎゅっ</h2><p>ふたりで、ちいさな おだんご。</p><p class="picture-entry">この絵の入口：<strong>やりとりで遊ぶ</strong></p><p class="entry-description">子どもが丸くなったら、Genも隣で小さくなる。子どもの動きから始める。</p><details class="other-entries"><summary>別の入口で遊ぶなら</summary><div class="alternative"><b>まねして遊ぶ</b><p>Genが膝を抱えて見せる。座って体を小さくするなど、その子なりの形で。</p></div></details><a class="download" href="../../assets/gen-play/gen-small.png" download>PNGを保存 ↓</a></article>
-<article id="big" data-entries="imitate interact"><span class="number">08</span><figure><a href="../../assets/gen-play/gen-big.png" aria-label="おおきく、ぱっの画像を開く"><img src="../../assets/gen-play/gen-big.png?736edc2502" width="1254" height="1254" alt="おおきく、ぱっ" loading="lazy"></a></figure><h2>おおきく、ぱっ</h2><p>てを ひろげて。あしも、ひろげて。</p><p class="picture-entry">この絵の入口：<strong>まねして遊ぶ</strong></p><p class="entry-description">Genが手足を広げて見せる。座ったまま手だけ広げても。</p><details class="other-entries"><summary>別の入口で遊ぶなら</summary><div class="alternative"><b>やりとりで遊ぶ</b><p>子どもが手を広げたら、大人もぱっ。広げる・閉じるのやりとりに。</p></div></details><a class="download" href="../../assets/gen-play/gen-big.png" download>PNGを保存 ↓</a></article>
+<article id="big" data-entries="imitate interact"><span class="number">08</span><figure><a href="../../assets/gen-play/gen-big.png?2f9ab7cfb0" aria-label="おおきく、ぱっの画像を開く"><img src="../../assets/gen-play/gen-big.png?2f9ab7cfb0" width="1254" height="1254" alt="おおきく、ぱっ" loading="lazy"></a></figure><h2>おおきく、ぱっ</h2><p>てを ひろげて。あしも、ひろげて。</p><p class="picture-entry">この絵の入口：<strong>まねして遊ぶ</strong></p><p class="entry-description">Genが手足を広げて見せる。座ったまま手だけ広げても。</p><details class="other-entries"><summary>別の入口で遊ぶなら</summary><div class="alternative"><b>やりとりで遊ぶ</b><p>子どもが手を広げたら、大人もぱっ。広げる・閉じるのやりとりに。</p></div></details><a class="download" href="../../assets/gen-play/gen-big.png?2f9ab7cfb0" download>PNGを保存 ↓</a></article>
 <article id="roll" data-entries="imitate interact"><span class="number">09</span><figure><a href="../../assets/gen-play/gen-roll.png" aria-label="ごろごろの画像を開く"><img src="../../assets/gen-play/gen-roll.png?161cd745a1" width="1536" height="1024" alt="ごろごろ" loading="lazy"></a></figure><h2>ごろごろ</h2><p>ごろん。もうひとつ、ごろん。</p><p class="picture-entry">この絵の入口：<strong>まねして遊ぶ</strong></p><p class="entry-description">Genが隣でゆっくり横向きに。子どもが試す動きに合わせる。</p><details class="other-entries"><summary>別の入口で遊ぶなら</summary><div class="alternative"><b>やりとりで遊ぶ</b><p>子どもが転がったら、大人も隣でごろん。手足を引いて転がさない。</p></div></details><a class="download" href="../../assets/gen-play/gen-roll.png" download>PNGを保存 ↓</a></article>
 <article id="approach" data-entries="setup interact"><span class="number">10</span><figure><a href="../../assets/gen-play/gen-approach.png" aria-label="トンネルを、のぞこうの画像を開く"><img src="../../assets/gen-play/gen-approach.png?ffce09e38f" width="1536" height="1024" alt="トンネルを、のぞこう" loading="lazy"></a></figure><h2>トンネルを、のぞこう</h2><p>あっちが、きになる？</p><p class="picture-entry">この絵の入口：<strong>しかけで遊ぶ</strong></p><p class="entry-description">短く広いトンネルを置き、入口や出口が見えるように。まずはのぞくだけでも。</p><details class="other-entries"><summary>別の入口で遊ぶなら</summary><div class="alternative"><b>やりとりで遊ぶ</b><p>向こう側から、こんにちは。子どもが見たら、大人も応じる。</p></div></details><a class="download" href="../../assets/gen-play/gen-approach.png" download>PNGを保存 ↓</a></article>
 <article id="tunnel" data-entries="setup imitate"><span class="number">11</span><figure><a href="../../assets/gen-play/gen-tunnel.png" aria-label="トンネル、するんの画像を開く"><img src="../../assets/gen-play/gen-tunnel.png?99ead95b77" width="1536" height="1024" alt="トンネル、するん" loading="lazy"></a></figure><h2>トンネル、するん</h2><p>でてきた！こんにちは。</p><p class="picture-entry">この絵の入口：<strong>しかけで遊ぶ</strong></p><p class="entry-description">出口側で待ち、子どもが自分から近づくのを見守る。通り抜けを急がせない。</p><details class="other-entries"><summary>別の入口で遊ぶなら</summary><div class="alternative"><b>まねして遊ぶ</b><p>Genが頭を低くしてくぐる姿を見せる。別の通り方や回り道でも。</p></div></details><a class="download" href="../../assets/gen-play/gen-tunnel.png" download>PNGを保存 ↓</a></article>

diff --git a/planning/README.md b/planning/README.md
@@ -59,6 +59,8 @@
 
 [ストーリーバックログのネタ試しリスト](story-backlog.md#ネタ試しリスト感情実用遊びをつなぐ)に、子どもへの関わり・親子遊び・保護者の節目を統合。20案の暫定評価と、初回6本の試し方を管理する。
 
+[家事のネタ10案](story-backlog.md#家事のネタ一緒に暮らす暮らしを分け合う10案)も追加。親子の家事参加と、保護者の負担・家族の分担を既存候補につなげ、暫定評価を管理する。
+
 同じバックログに[ママの心が動く26場面](story-backlog.md#ママの心が大きく動くとき年齢節目から絵本を考える)を追加。出生前から卒業後までの年齢目安、感情の揺れ、絵本候補を整理する。
 
 ## 1. 最初に読む順番
